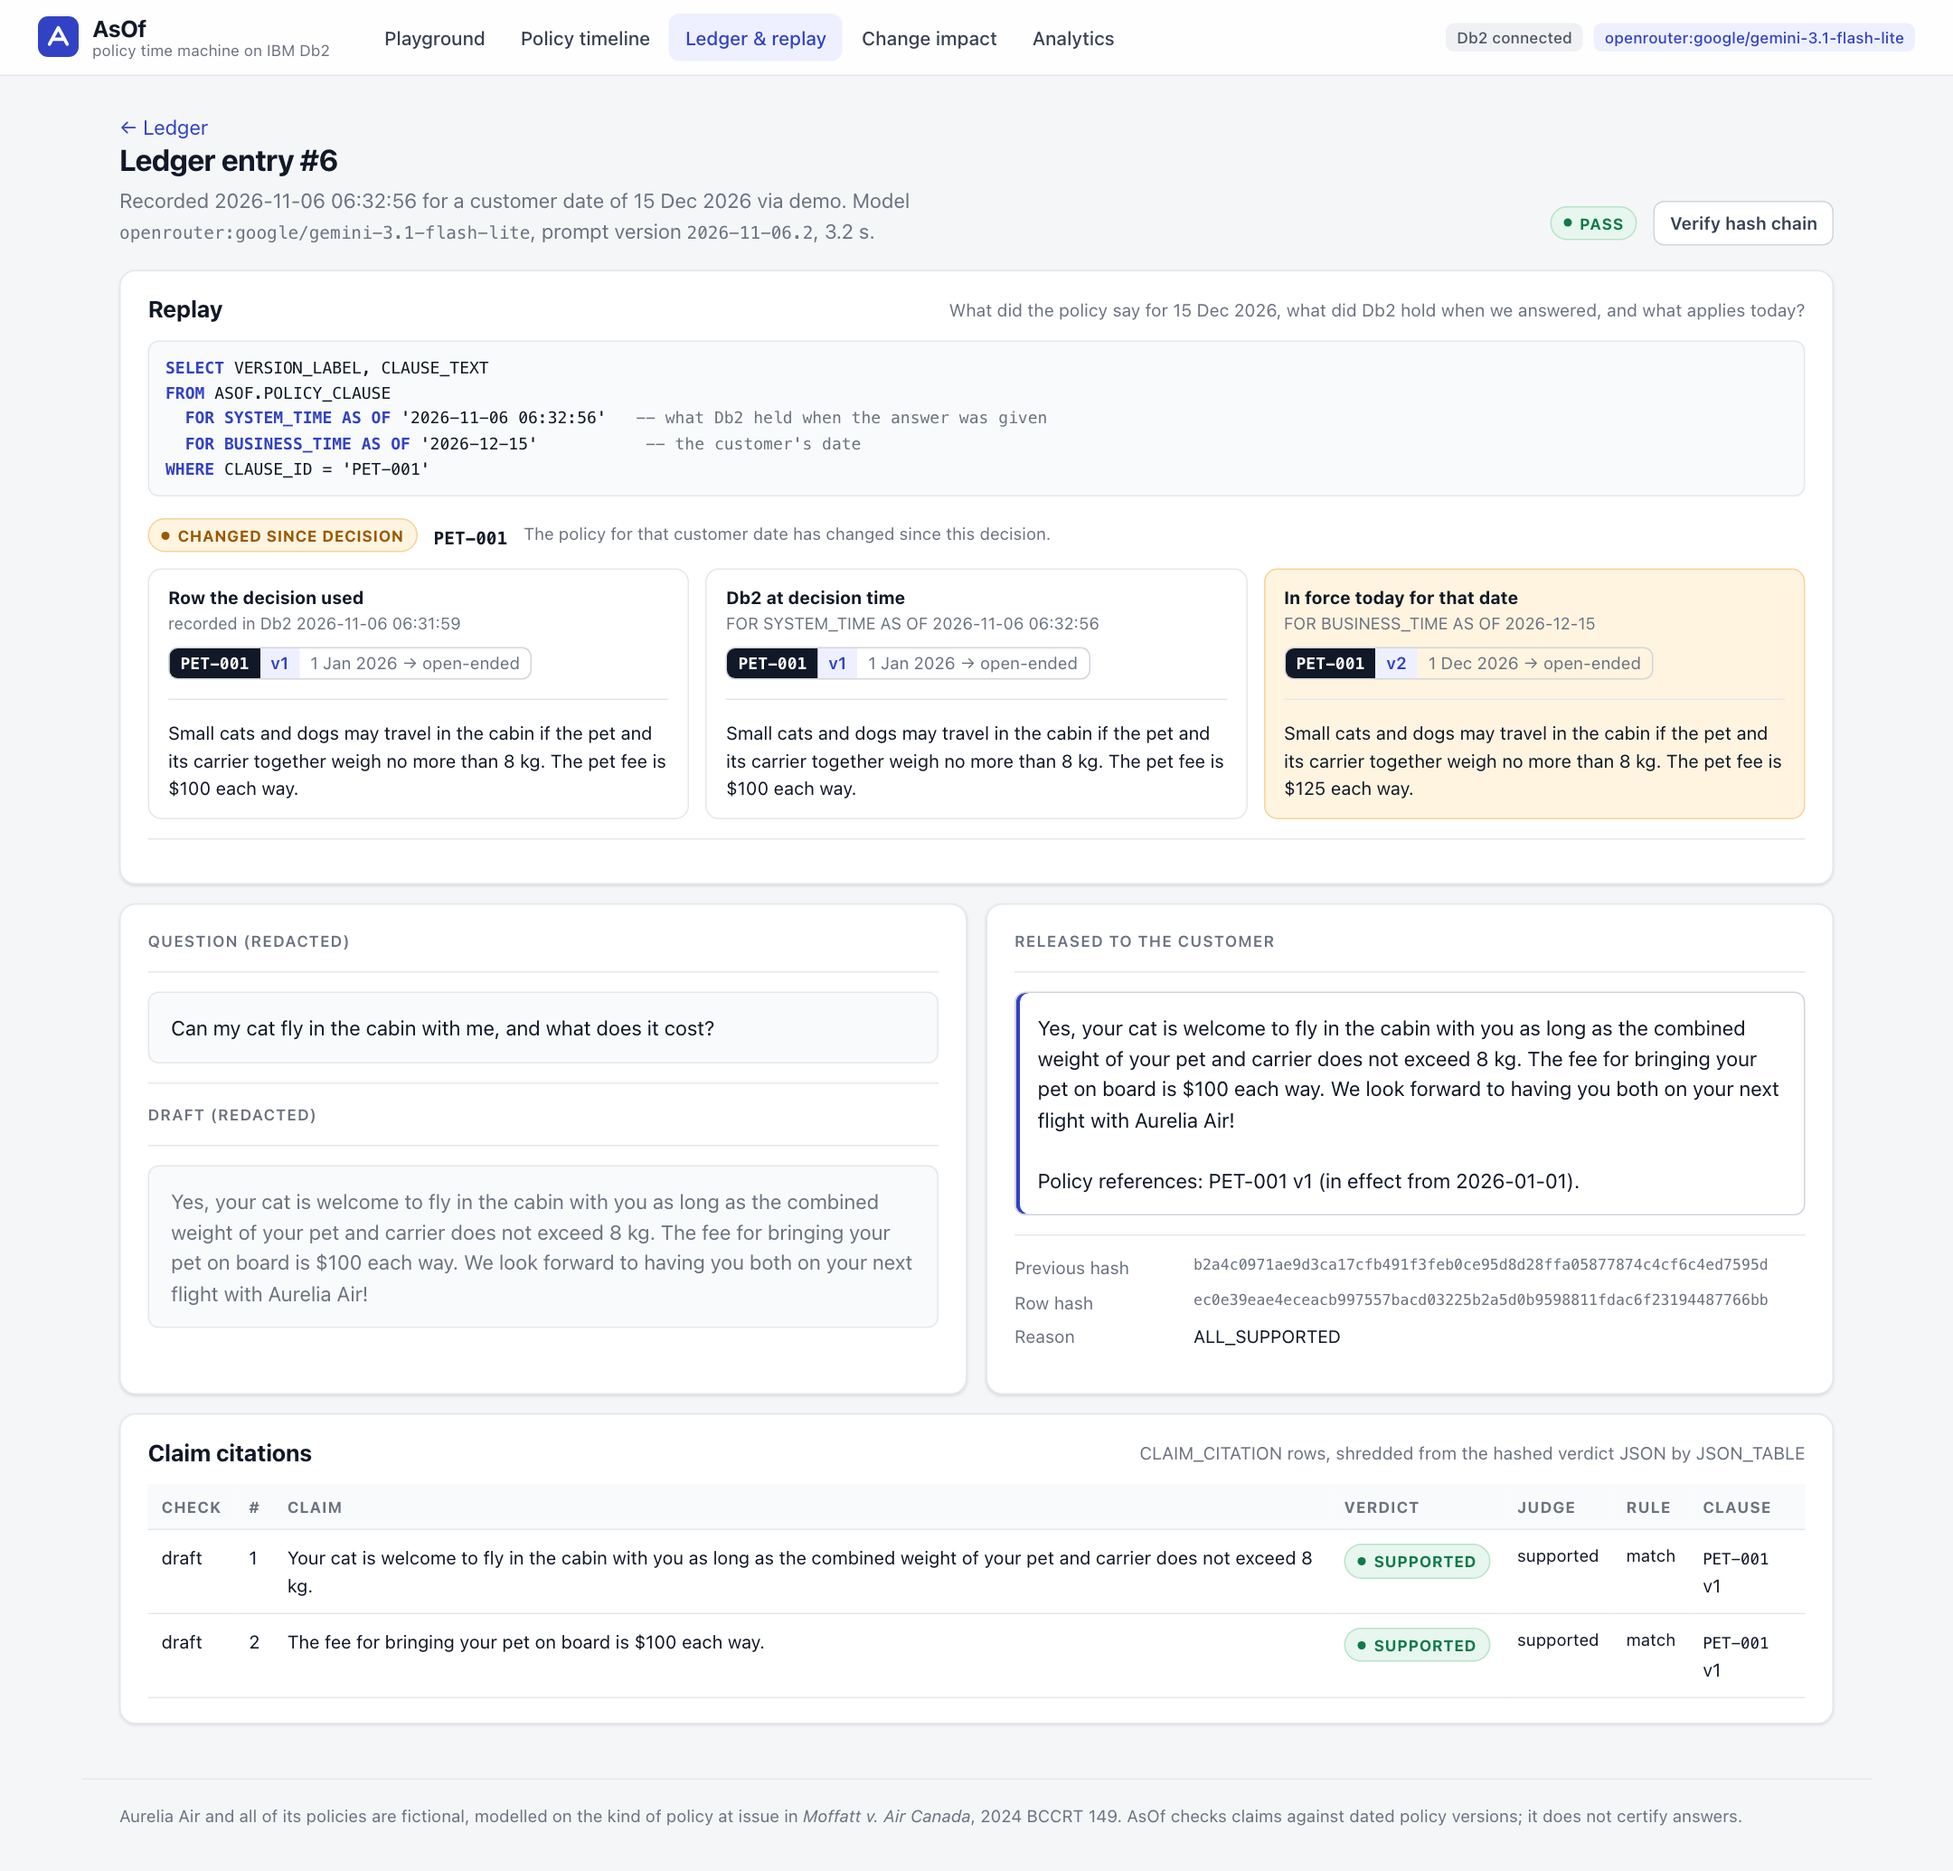
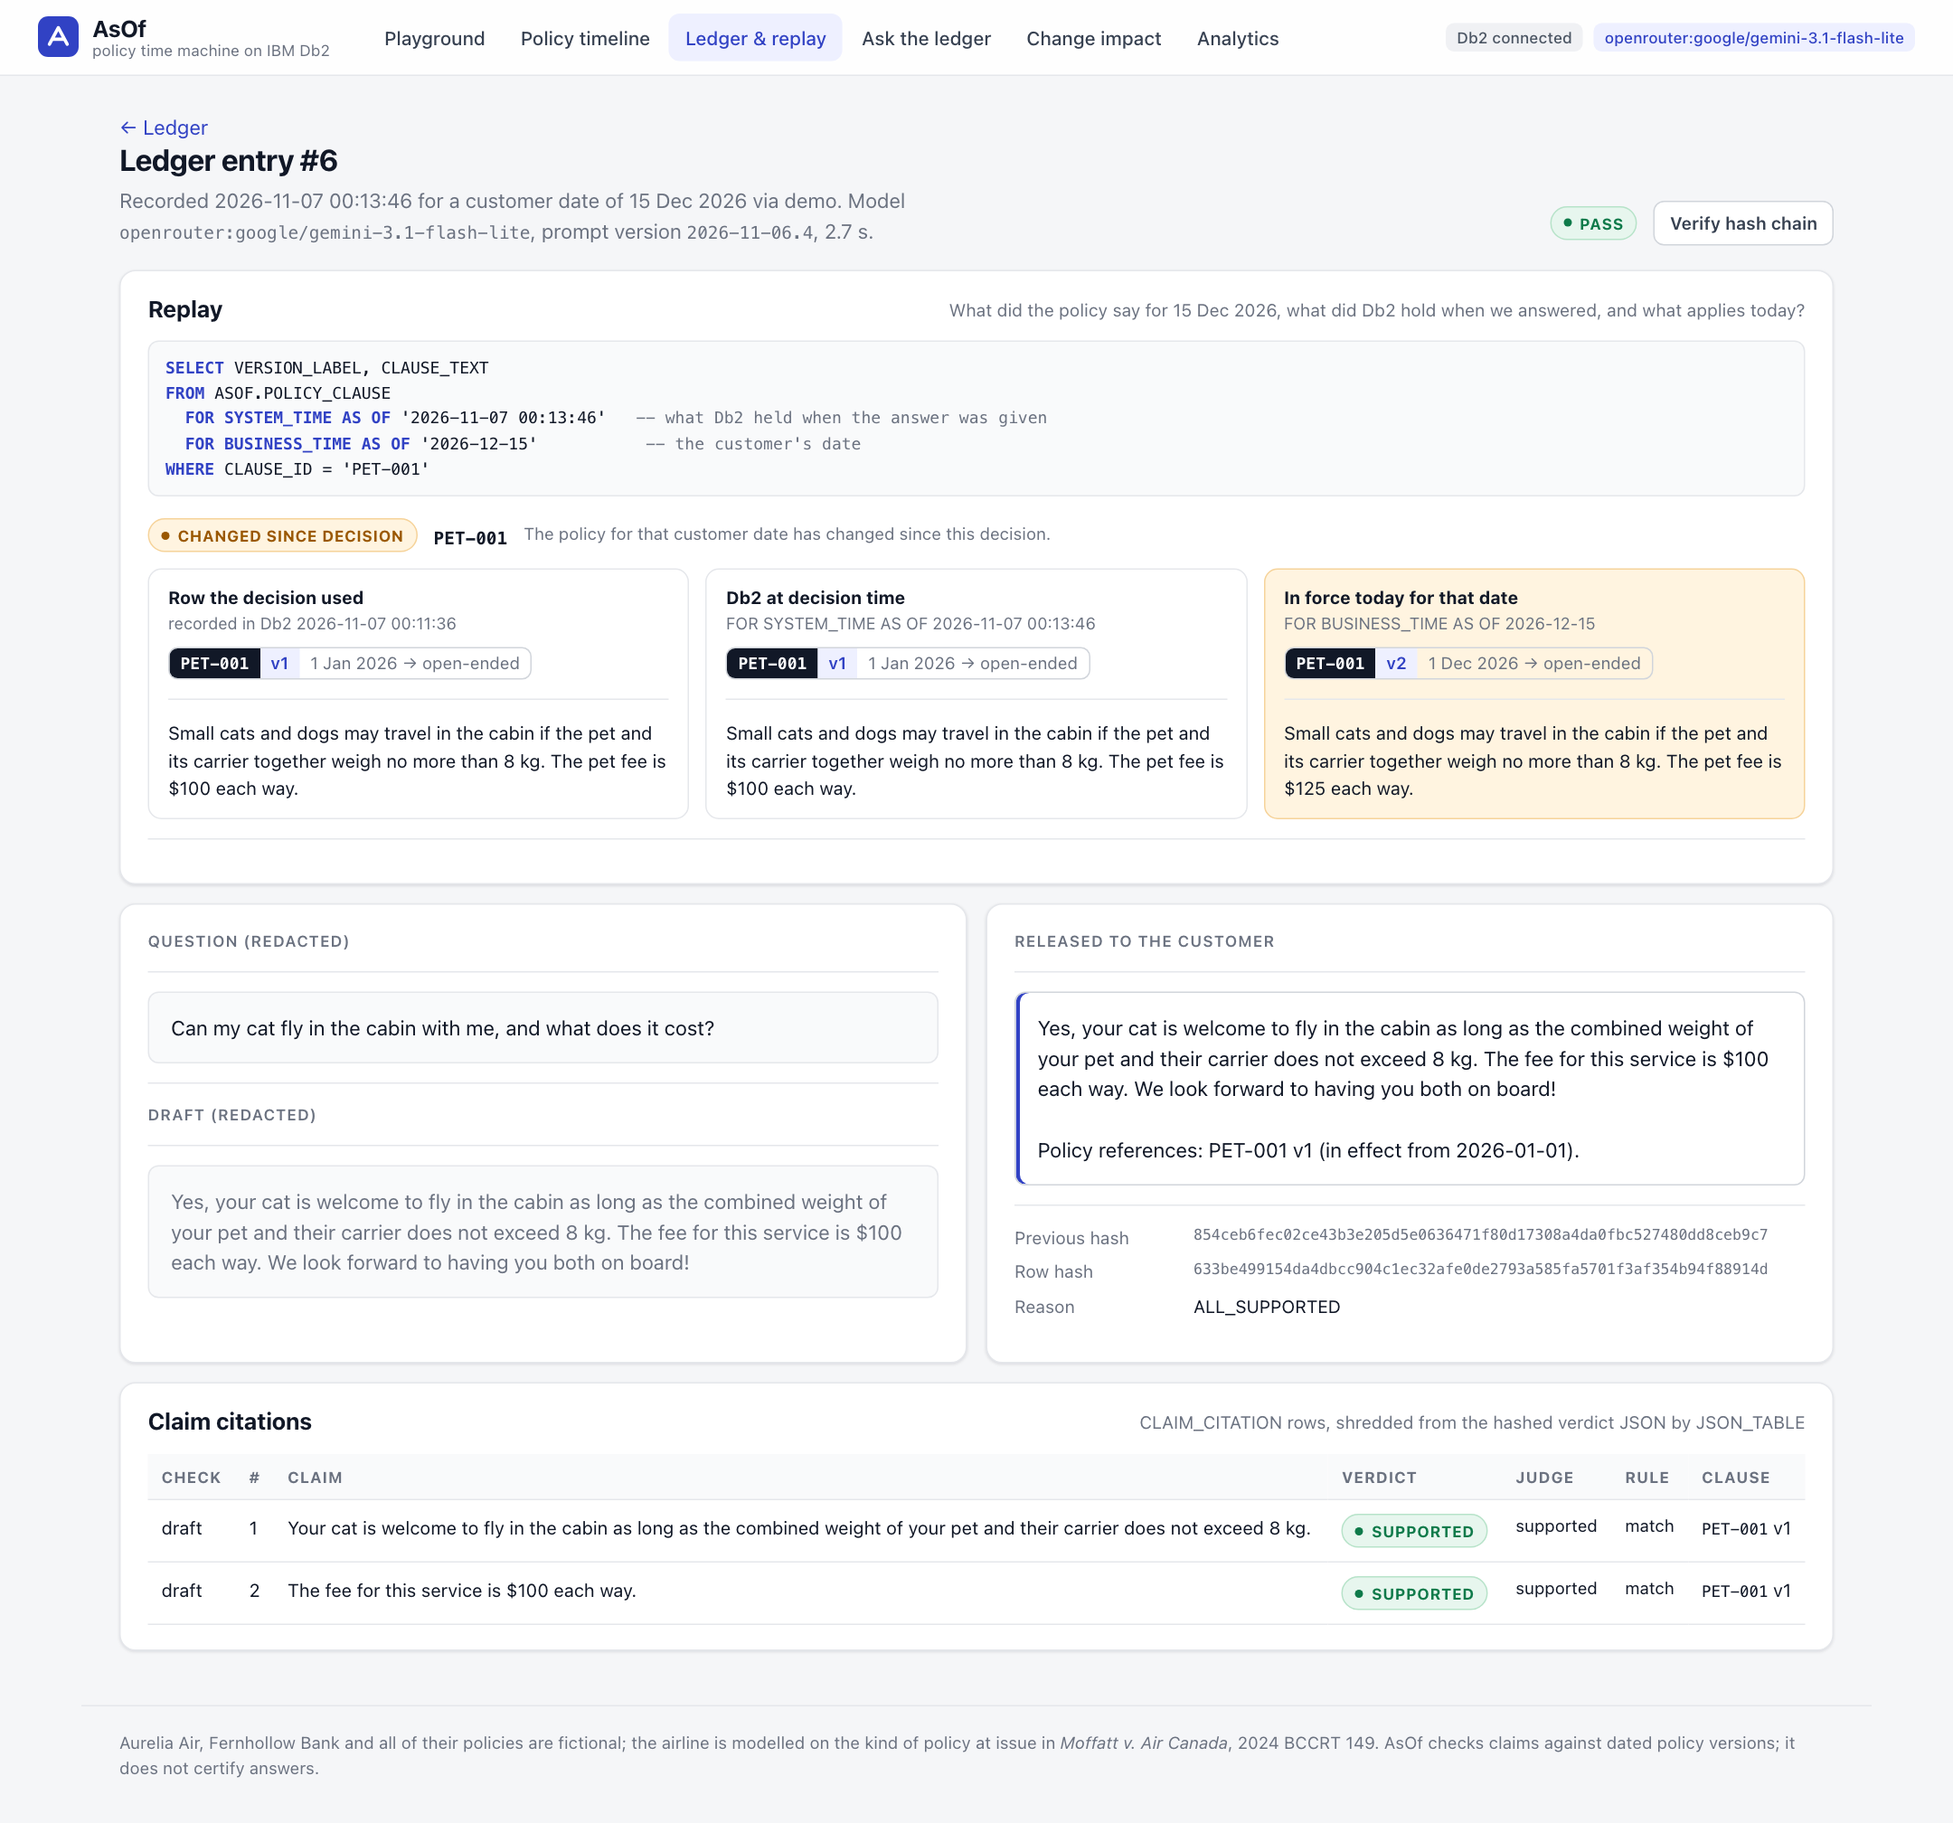
docs(asof): refresh screenshots from a clean demo run, both domains included
Thirteen screens: Ask the ledger with masked text, the bank's case and
timeline, the agent's drafted correction and its approval. The UI footer now
names both fictional companies.

diff --git a/submissions/asof/src/asof/ui/index.html b/submissions/asof/src/asof/ui/index.html
@@ -28,8 +28,8 @@
   </header>
   <main id="view" tabindex="-1"></main>
   <footer class="foot">
-    Aurelia Air and all of its policies are fictional, modelled on the kind of policy at issue in
-    <em>Moffatt v. Air Canada</em>, 2024 BCCRT 149. AsOf checks claims against dated policy versions; it does not certify answers.
+    Aurelia Air, Fernhollow Bank and all of their policies are fictional; the airline is modelled on the kind of policy at
+    issue in <em>Moffatt v. Air Canada</em>, 2024 BCCRT 149. AsOf checks claims against dated policy versions; it does not certify answers.
   </footer>
   <script type="module" src="app.js"></script>
 </body>

diff --git a/submissions/asof/README.md b/submissions/asof/README.md
@@ -528,12 +528,18 @@ The two misses were both escalations instead of corrections. **BT10:** the judge
 | **Policy timeline** | Every clause version on its business-time period, with its key rule parameter read out of `RULE_JSON` by a Db2 view (`$35` then `$40`, "before travel only" then "retroactive, 90 days"). Move the as-of date; click a version for its text, rule JSON and its system-time history: every row Db2 has held, when, and which user changed it. |
 | **Ledger and replay** | Every decision, a one-click `VERIFY_CHAIN`, and per entry the replay: the clause row the decision used, what Db2 held at that moment (`FOR SYSTEM_TIME AS OF`), and what applies today for that customer date (`FOR BUSINESS_TIME AS OF`), with the SQL. |
 | **Change impact** | Apply a new clause version as `asofedit` (presets included), then see which released answers are now stale, which are still right for their date, and which help-centre answers need review and from when. **Draft corrections with the agent** writes a fix for each help-centre answer that needs review, after looking up related clauses in Db2, and runs it through the full check; **Approve and publish** splits the answer in time, so the old text keeps the dates before the change. |
+| **Ask the ledger** | Plain-English questions about the audit trail, answered as the read-only analyst `asofread`: the answer, the SQL that ran (regenerated by SQLGlot) and the rows, with the customer's question and our reply shown as Db2's `[masked]`. |
 | **Analytics** | Decisions, claims by area and rule-check overrides, from Db2 views. |
+
+Both policy documents run through the same screens: the playground has two bank scenarios, and the timeline switches between Aurelia Air and Fernhollow Bank.
 
 | | |
 |---|---|
 | ![Policy timeline](docs/screenshots/02-policy-timeline.png) | ![Change impact after raising the pet fee from 1 Dec 2026](docs/screenshots/04-change-impact.png) |
 | ![Replay of a December pet answer after the fee change](docs/screenshots/05-replay-after-change.png) | ![Timeline and system-time history after the change](docs/screenshots/06-timeline-after-change.png) |
+| ![The change-impact agent's drafted correction, checked and waiting for the editor](docs/screenshots/12-drafted-correction.png) | ![The correction approved: the help-centre answer split in time](docs/screenshots/13-correction-approved.png) |
+| ![Ask the ledger as the read-only analyst: decisions visible, customer text masked by Db2](docs/screenshots/09-ask-the-ledger.png) | ![The bank's Moffatt case: "refunded automatically", corrected from FRV-001 v1](docs/screenshots/10-bank-playground.png) |
+| ![Fernhollow Bank's fee schedule on the policy timeline](docs/screenshots/11-bank-timeline.png) | ![Audit ledger with the chain verified](docs/screenshots/07-ledger.png) |
 
 **The change-impact story in four clicks:** run `python -m asof.demo` (it records pet-fee answers for a November and a December trip), open **Change impact**, choose the preset "Pet fee to $125 from 1 Dec 2026", and apply it. Db2 splits PET-001 into v1 (to 1 Dec) and v2 (from 1 Dec) with `FOR PORTION OF BUSINESS_TIME`. `CHANGE_IMPACT` reports the November answer as historically valid, the December answer as stale (the customer was told $100 for a trip that now costs $125), and help-centre answer PA-PET-001 as needing review from 1 Dec 2026. Replay on the December entry shows all three states side by side.
 
